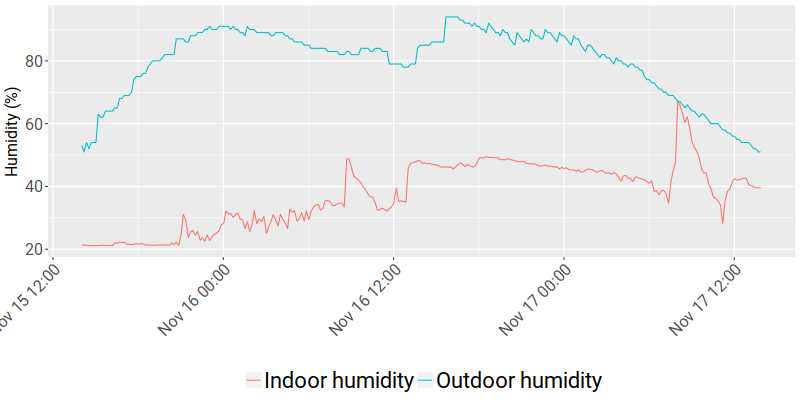
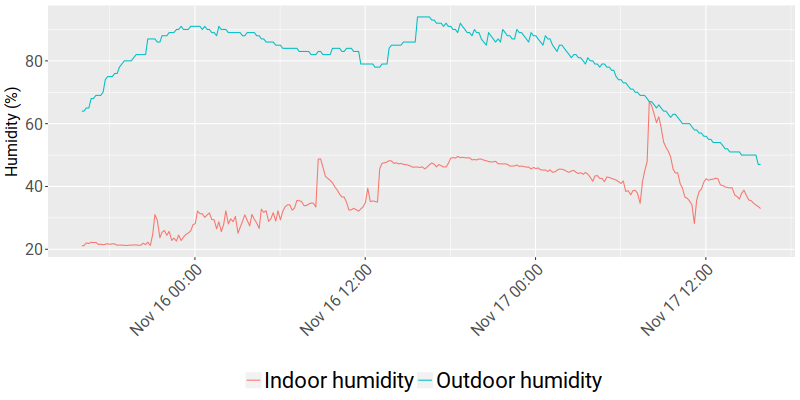
Update live temperature on site

diff --git a/temperature.js b/temperature.js
@@ -1,1 +1,1 @@
-document.write("<h4>Inside Temperature: 20.0°C</h4><h4>Outside Temperature: 5.28°C</h4><h4>Fermenter 1 Temperature: 85.0°C</h4><h4>Fermenter 2 Temperature: 19.75°C</h4><h4>Inside Humidity: 39.62%</h4><h4>Outside Humidity: 51.0%</h4><br>Last update: 2017-11-17 13:51:10");
+document.write("<h4>Inside Temperature: 19.16°C</h4><h4>Outside Temperature: 4.94°C</h4><h4>Fermenter 1 Temperature: 85.0°C</h4><h4>Fermenter 2 Temperature: 19.69°C</h4><h4>Inside Humidity: 32.97%</h4><h4>Outside Humidity: 47.0%</h4><br>Last update: 2017-11-17 15:51:23");
